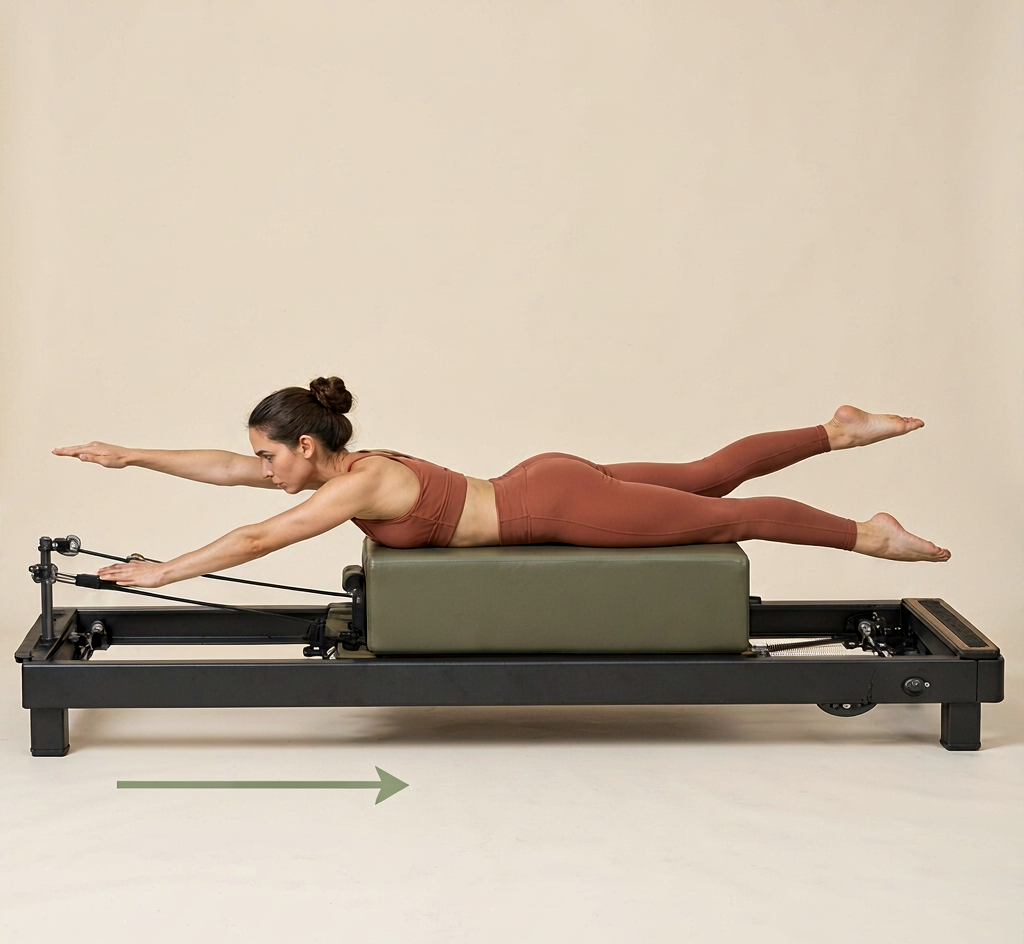
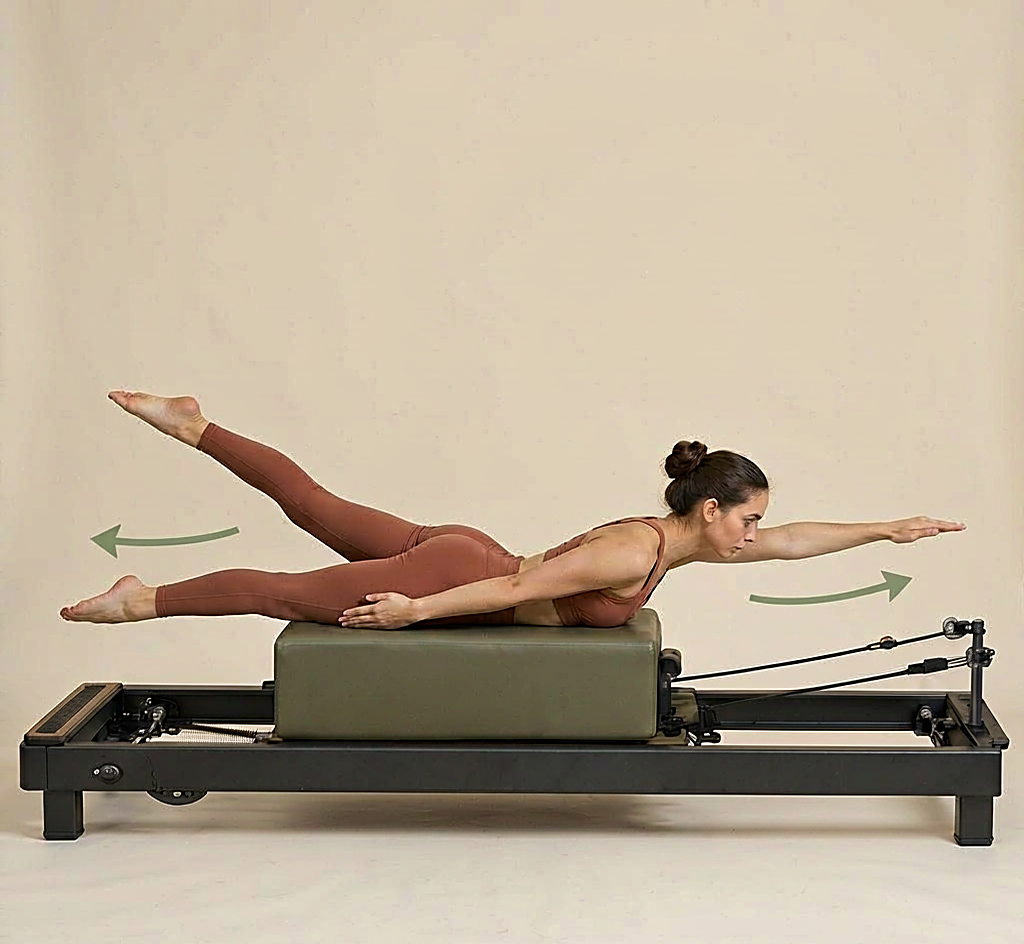
Deploy Swimming (mirrored variant) v2

diff --git a/src/App.tsx b/src/App.tsx
@@ -345,7 +345,7 @@ const reformerAlignedImages: Record<string, string> = {
   "Tic Toc": "assets/reformer/31.png?v=1",
   "Control Balance Off": "assets/reformer/32.png?v=1",
   "Grasshopper": "assets/reformer/33.png?v=1",
-  "Swimming": "assets/reformer/34.png?v=1",
+  "Swimming": "assets/reformer/34.png?v=2",
   "Rocking": "assets/reformer/35.png?v=1",
   "Single Leg Elephant": "assets/reformer/36.png?v=1",
   "Arabesque": "assets/reformer/37.png?v=1",
